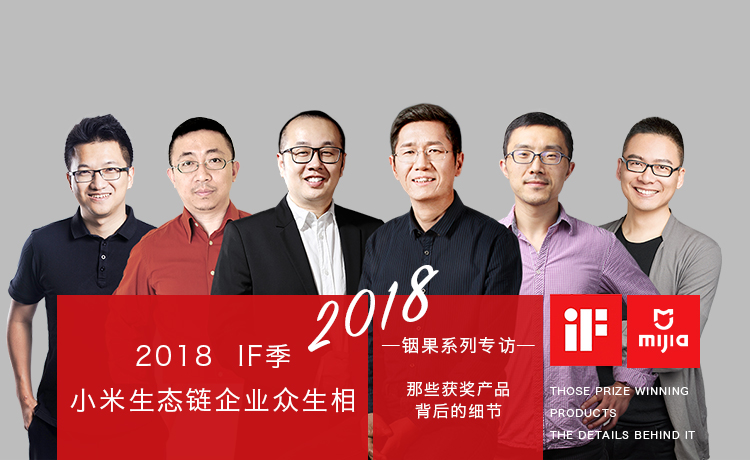
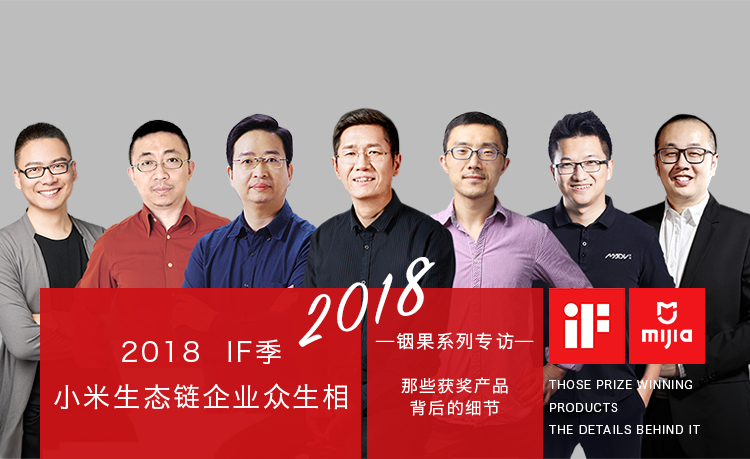
小米专题页面添加内容

diff --git a/src/components/pages/subject/XiaoMiInterview.vue b/src/components/pages/subject/XiaoMiInterview.vue
@@ -10,14 +10,26 @@
 台，借此契机，采访了小米生态链负责人刘德和生态链内数位企业家，希望从他们的故事中，找到获奖产品背后不
 为人知的细节。</article>
     </div>
-    <div class="banner-liude" v-if="!isMob" :style="{height : calcHeight}">
+    <div class="banner-liude" v-if="!isMob" :style="{height : calcHeight3}">
       <p class="clearfix">
         <span class="title">小米生态链负责人刘德</span>
         <span class="info">工业设计师创业的底牌、痛点与危机</span>
         <a target="_blank" href="https://www.d3ingo.com/article/show/123"></a>
       </p>
+      <div class="liude-bg1"></div>
+      <div class="liude-bg2"></div>
+    </div>
+    <div class="banner-honghua" v-if="!isMob" :style="{height : calcHeight3}">
+      <p class="clearfix">
+        <span class="info">设计师要直面商业世界的残酷</span>
+        <span class="title">一一铟果专访谷仓学院洪华实录</span>
+        <a target="_blank" href="https://www.d3ingo.com/article/show/136"></a>
+      </p>
+      <div class="honghua-bg1"></div>
+      <div class="honghua-bg2"></div>
     </div>
     <a target="_blank" href="https://www.d3ingo.com/article/show/123"><div v-if="isMob" class="banner-liude-m" :style="{height : calcHeight2}"></div></a> <!-- 移动端 -->
+    <a target="_blank" href="https://www.d3ingo.com/article/show/136"><div v-if="isMob" class="banner-honghua-m" :style="{height : calcHeight2}"></div></a> <!-- 移动端 -->
     <div class="people" v-if="!isMob">
       <div class="people-pic"></div>
       <div class="picture-cover">
@@ -40,8 +52,9 @@ export default {
   name: 'xiaomiInterview',
   data() {
     return {
-      calcHeight: '',
-      calcHeight2: ''
+      calcHeight: '', // banner
+      calcHeight2: '', // 移动端
+      calcHeight3: '' // 人物banner
     }
   },
   mounted() {
@@ -50,21 +63,23 @@ export default {
       if (that.isMob) {
         that.calcHeight = calcImgSize(460, 750, false)
       } else {
-        that.calcHeight = calcImgSize(1040, 2880)
+        that.calcHeight = calcImgSize(500, 1440)
       }
-    })
-    if (this.isMob) {
-      this.calcHeight = calcImgSize(460, 750, false)
-    } else {
-      this.calcHeight = calcImgSize(1040, 2880)
-    }
-    window.addEventListener('resize', () => {
+      if (that.isMob) {
+        that.calcHeight3 = calcImgSize(460, 750, false)
+      } else {
+        that.calcHeight3 = calcImgSize(420, 1440)
+      }
       if (that.isMob) {
         that.calcHeight2 = calcImgSize(415, 690, false)
       }
     })
     if (this.isMob) {
+      this.calcHeight = calcImgSize(460, 750, false)
       this.calcHeight2 = calcImgSize(415, 690, false)
+    } else {
+      this.calcHeight = calcImgSize(500, 1440)
+      this.calcHeight3 = calcImgSize(420, 1440)
     }
   },
   computed: {
@@ -84,8 +99,10 @@ export default {
 }
 </script>
 <style scoped>
+
   .banner {
-    background: url('../../../assets/images/subject/xiaomi/mibanner.png') no-repeat bottom;
+    max-height: 500px;
+    background: url('../../../assets/images/home/banner/home_xiaomi.jpg') no-repeat bottom;
     background-size: cover;
   }
   .banner-m {
@@ -105,20 +122,84 @@ export default {
   }
   .banner-liude {
     position: relative;
+    max-height: 500px;
     background: url('../../../assets/images/subject/xiaomi/liude.png') no-repeat top;
     background-size: contain;
     display: flex;
     align-items: center;
-    margin-bottom: 80px;
+    margin-bottom: 50px;
+  }
+
+  .liude-bg1 {
+    position: absolute;
+    z-index: -1;
+    left: 0;
+    top: 0;
+    width: 50%;
+    height: 100%;
+    background: #ca1317
+  }
+
+  .liude-bg2 {
+    position: absolute;
+    z-index: -1;
+    left: 50%;
+    top: 0;
+    width: 50%;
+    height: 100%;
+    background: url('../../../assets/images/subject/xiaomi/liude_bg.png') repeat-x top;
+    background-size: contain;
+  }
+  .banner-honghua {
+    position: relative;
+    max-height: 500px;
+    background: url('../../../assets/images/subject/xiaomi/honghua.png') no-repeat top;
+    background-size: contain;
+    display: flex;
+    align-items: center;
+    margin-bottom: 100px;
+  }
+  .honghua-bg1 {
+    position: absolute;
+    z-index: -1;
+    left: 0;
+    top: 0;
+    width: 50%;
+    height: 100%;
+    background: #cdcdcd
+  }
+  .honghua-bg2 {
+    position: absolute;
+    z-index: -1;
+    left: 50%;
+    top: 0;
+    width: 50%;
+    height: 100%;
+    background: #eaeaea
   }
   .banner-liude-m {
+    margin-bottom: 20px;
     background: url('../../../assets/images/subject/xiaomi/Mliude.jpg') no-repeat top;
+    background-size: contain;
+  }
+  .banner-honghua-m {
+    background: url('../../../assets/images/subject/xiaomi/Mhonghua.jpg') no-repeat top;
     background-size: contain;
   }
   .banner-liude p {
     width: 50%;
     padding-right: 68px;
     text-align: right
+  }
+  
+  .banner-honghua p {
+    width: 50%;
+    margin-left: 50%;
+    padding-left: 68px;
+    text-align: left;
+  }
+  .banner-honghua span {
+    color: #222;
   }
   .title {
     white-space: nowrap;
@@ -144,8 +225,17 @@ export default {
     background-size: cover;
     transform: scale(0.8)
   }
+
+  .banner-honghua a {
+    display: inline-block;
+    width: 156px;
+    height: 38px;
+    background: url('../../../assets/images/subject/xiaomi/button2.png') no-repeat top;
+    background-size: cover;
+    transform: scale(0.8)
+  }
   
-  .banner-liude a:active {
+  .banner-liude a:active, .banner-honghua a:active {
     transform: scale(0.76)
   }
   .people {
@@ -156,7 +246,7 @@ export default {
   .people-m {
     background: url('../../../assets/images/subject/xiaomi/Mpeople.jpg') no-repeat top;
     background-size: contain;
-    margin: 30px 0;
+    margin: 20px 0;
   }
   .people-pic {
     max-width: 1176px;

diff --git a/src/components/pages/home/Home.vue b/src/components/pages/home/Home.vue
@@ -207,7 +207,7 @@
             url: '/innovation_index'
           },
           {
-            img: require ('assets/images/home/banner/homebanner_xiaomi.jpg'),
+            img: require ('assets/images/home/banner/home_xiaomi.jpg'),
             url: '/subject/xiaomiInterview'
           }
         ],
